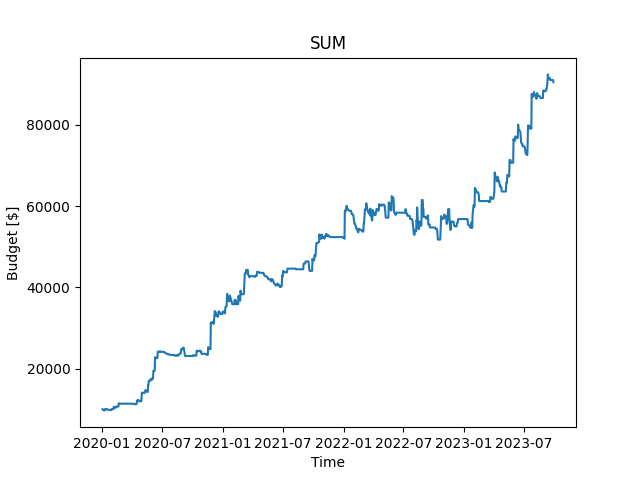
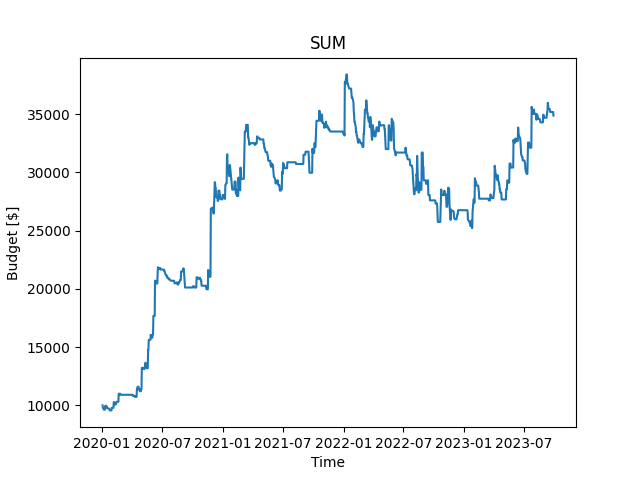
Fix circular imports

diff --git a/backtest/main.py b/backtest/main.py
@@ -1,10 +1,10 @@
 from datetime import date
 from pathlib import Path
-from typing import List, Tuple
+from typing import List, Tuple, Dict
 
 import matplotlib
 
-from backtest.constants import BUDGET, START_DATE, END_DATE
+from backtest.constants import BUDGET, START_DATE, END_DATE, ShortWindowSize, LongWindowSize
 from backtest.utils import (
     load_data_from_csv,
     Data,
@@ -54,7 +54,7 @@ def backtest(
             continue
 
         if should_sell(is_holding, stop_loss_price, data.low):
-            sell_price = min(data.open, stop_loss_price)
+            sell_price = min(data.open, stop_loss_price) * 0.995
             budget *= (sell_price - buy_price) / buy_price + 1
             is_holding = False
             margin_rate = ((sell_price - buy_price) / buy_price) * 100
@@ -91,17 +91,35 @@ def get_res_by_file_name(file_name: str, short, long) -> Tuple[List[date], List[
     return date_list, budget_list
 
 
-if __name__ == "__main__":
-    first_file_name = "FNGU.csv"
-    second_file_name = "NRGU.csv"
+def get_optimal_window_sizes(data_list: List[Data]) -> List[Dict]:
+    ma_budget_list = []
+    for i in range(1, 60):
+        for j in range(1, i):
+            date_list, budget_list = backtest(data_list, i, j)
+            final_budget = budget_list[-1]
+            ma_budget_list.append(
+                {"short_window_size": j, "long_window_size": i, "budget": final_budget}
+            )
 
-    first_date_list, first_budget_list = get_res_by_file_name(first_file_name, 3, 16)
-    second_date_list, second_budget_list = get_res_by_file_name(second_file_name, 3, 30)
+    ma_budget_list.sort(key=lambda x: x["budget"])
+    return ma_budget_list
+
+
+if __name__ == "__main__":
+    FNGU = "FNGU.csv"
+    NGRU = "NRGU.csv"
+
+    date_list, FNGU_budget_list = get_res_by_file_name(
+        FNGU, ShortWindowSize.FNGU.value, LongWindowSize.FNGU.value
+    )
+    _, NGRU_budget_list = get_res_by_file_name(
+        NGRU, ShortWindowSize.NRGU.value, LongWindowSize.NRGU.value
+    )
 
     res_budget_list = [
-        (first + second) for first, second in zip(first_budget_list, second_budget_list)
+        (first + second) for first, second in zip(FNGU_budget_list, NGRU_budget_list)
     ]
-    log_annual_returns_summary(first_date_list, res_budget_list)
-    plot_graph(first_date_list, res_budget_list, Path("SUM").stem)
+    log_annual_returns_summary(date_list, res_budget_list)
+    plot_graph(date_list, res_budget_list, Path("SUM").stem)
 
     # get_optimal_window_sizes(data_list)

diff --git a/backtest/utils.py b/backtest/utils.py
@@ -3,11 +3,10 @@ import datetime
 from datetime import date
 from dataclasses import dataclass
 from pathlib import Path
-from typing import List, Any, Dict
+from typing import List, Any
 import matplotlib.pyplot as plt
 
 from backtest.constants import MIN_YEAR
-from backtest.main import backtest
 from logger import logger
 
 
@@ -75,17 +74,3 @@ def get_moving_average(window_size: int, data_list: List[Data], index: int) -> f
         total += data.close
 
     return total / window_size
-
-
-def get_optimal_window_sizes(data_list: List[Data]) -> List[Dict]:
-    ma_budget_list = []
-    for i in range(1, 60):
-        for j in range(1, i):
-            date_list, budget_list = backtest(data_list, i, j)
-            final_budget = budget_list[-1]
-            ma_budget_list.append(
-                {"short_window_size": j, "long_window_size": i, "budget": final_budget}
-            )
-
-    ma_budget_list.sort(key=lambda x: x["budget"])
-    return ma_budget_list

diff --git a/backtest/constants.py b/backtest/constants.py
@@ -1,6 +1,17 @@
 from datetime import date
+from enum import Enum
 
 MIN_YEAR = 2000
 BUDGET = 5000
 START_DATE = date(2020, 1, 1)
 END_DATE = date(2023, 10, 1)
+
+
+class LongWindowSize(Enum):
+    FNGU = 16
+    NRGU = 30
+
+
+class ShortWindowSize(Enum):
+    FNGU = 3
+    NRGU = 3
